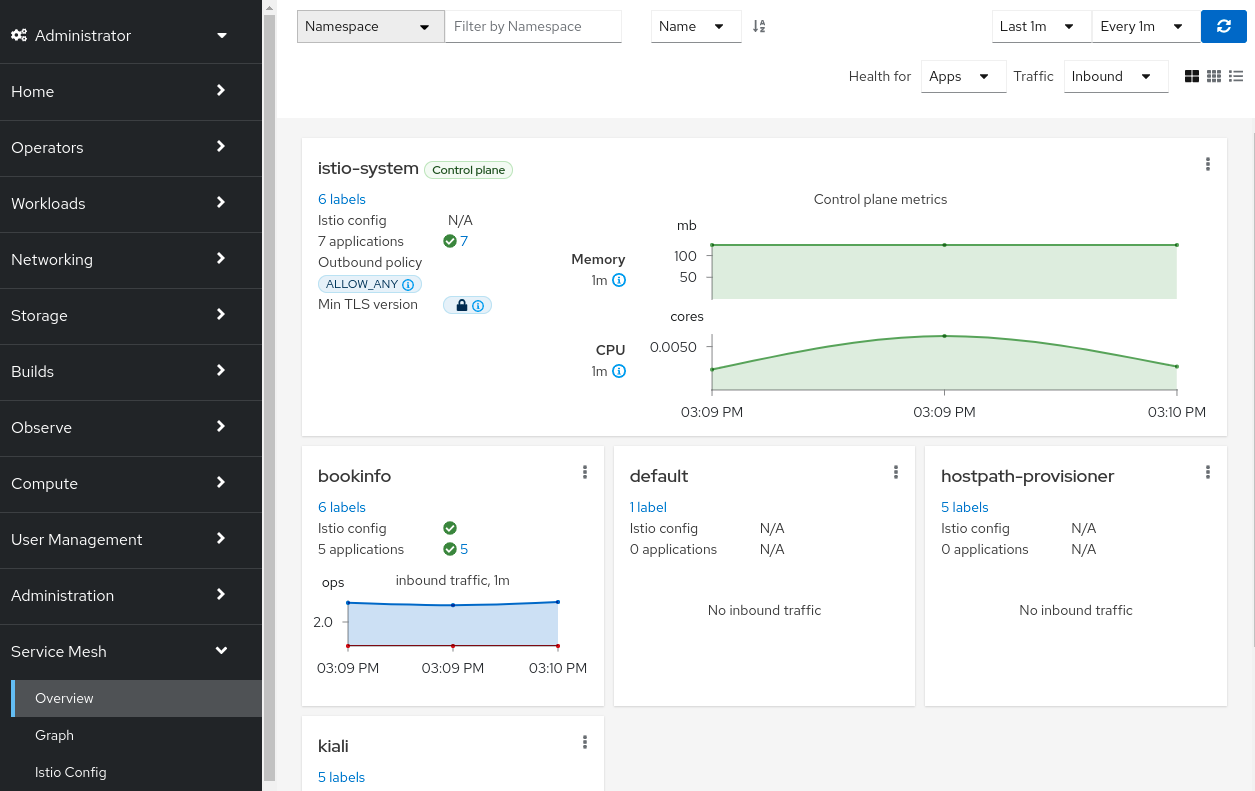
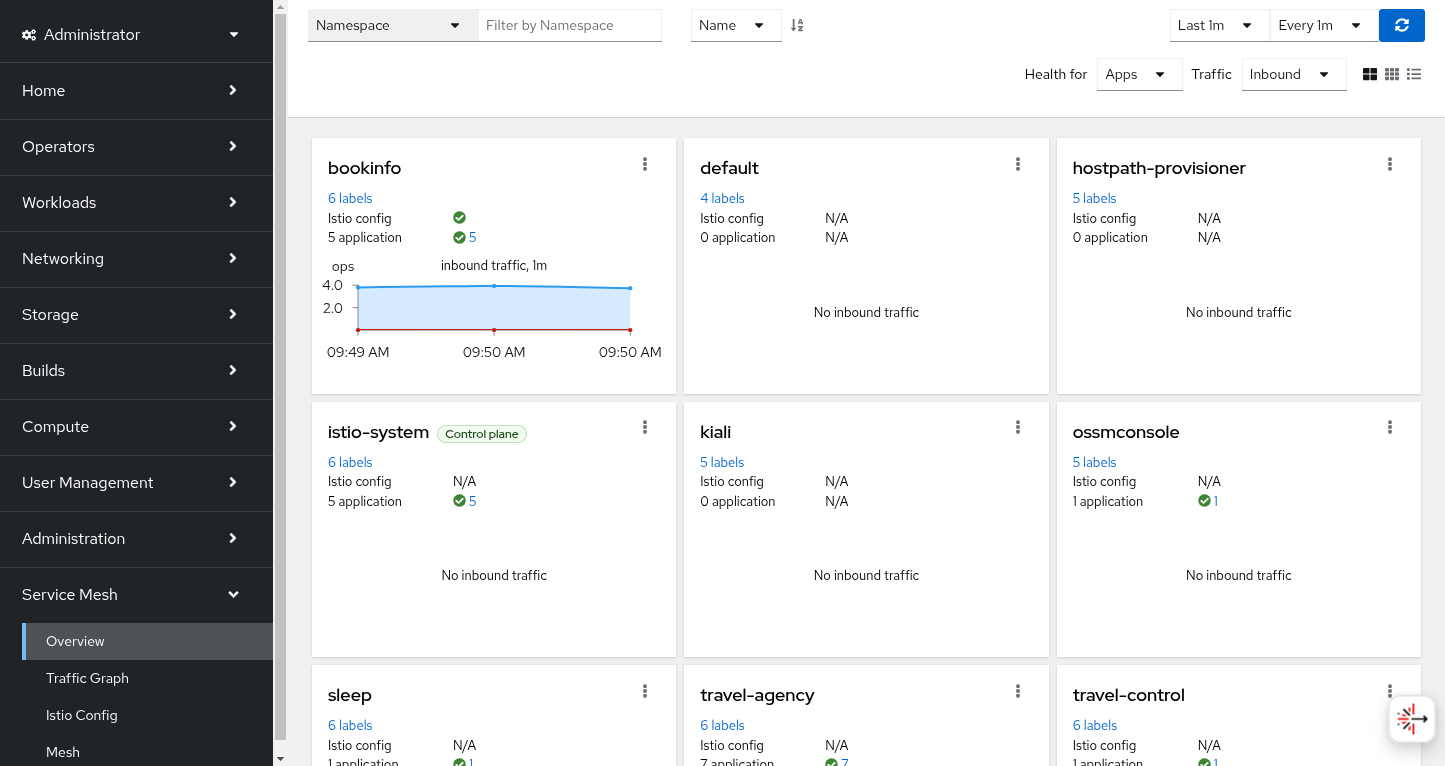
Add mesh page to OSSMC User Guide

diff --git a/content/en/docs/OSSMC/users-guide.md b/content/en/docs/OSSMC/users-guide.md
@@ -4,16 +4,16 @@ description: "User Guide providing a quick tour of OSSMC functionality"
 weight: 10
 ---
 
-The OpenShift Service Mesh Console (aka OSSMC) is an extension to the OpenShift Console which provides visibility into your Service Mesh. With OSSMC installed you will see a new **Service Mesh** menu option on the left-hand side of the Console, as well as new **Service Mesh** tabs that enhance existing Console pages such as the **Workloads** and **Services** pages.
+The OpenShift Service Mesh Console (OSSMC) is an extension to the OpenShift Console which provides visibility into your Service Mesh. With the OSSMC plugin installed, a new **Service Mesh** menu category is available in the navigation menu on the left side of the web console, as well as new **Service Mesh** tabs that enhance the existing **Workloads** and **Services** OpenShift console detail pages.
 
-The features you see described here are very similar to those of the standalone Kiali Console. In fact, you can still access the standalone Kiali Console if you wish. This User Guide, however, will discuss the extensions you see from within the OpenShift Console itself.
+The features of the OSSMC plugin are the same as those of the standalone Kiali Console, but the pages are organized differently to better integrate with the OpenShift console. The OSSMC plugin does not replace the Kiali Console, and after installing the OSSMC plugin, you can still access the standalone Kiali Console. This User Guide, however, will discuss the extensions you see from within the OpenShift Console itself.
 
 {{% alert color="warning" %}}
 The OSSMC [only supports a single tenant today](https://github.com/kiali/openshift-servicemesh-plugin/issues/187). Whether that tenant is configured to access only a subset of OpenShift projects or has access cluster-wide to all projects does not matter, however, only a single tenant can be accessed.
 {{% /alert %}}
 
 {{% alert color="warning" %}}
-If you are using a certificate that your browser does not initially trust, you must tell your browser to trust the certificate first before you are able to access the OpenShift Service Mesh Console. You can go to the Kiali standalone UI and tell the browser to accept its certificate in order to do this.
+If you are using a certificate that your browser does not initially trust, you must tell your browser to trust the certificate first before you are able to access the OSSMC plugin. To do this, go to the Kiali standalone user interface (UI) and tell the browser to accept its certificate.
 {{% /alert %}}
 
 ## Overview
@@ -22,9 +22,9 @@ The **Overview** page provides a summary of your mesh by showing cards represent
 
 ![Overview](/images/documentation/installation/installation-guide/20-overview.png)
 
-## Graph
+## Traffic Graph
 
-The **Graph** page provides the full topology view of your mesh. The mesh is represented by nodes and edges - each node representing a component of the mesh and each edge representing traffic flowing through the mesh between components.
+The **Traffic Graph** page provides the full topology view of your mesh. The mesh is represented by nodes and edges - each node representing a component of the mesh and each edge representing traffic flowing through the mesh between components.
 
 ![Graph](/images/documentation/installation/installation-guide/21-graph.png)
 
@@ -34,15 +34,21 @@ The **Istio Config** page provides a list of all Istio configuration files in yo
 
 ![Istio Config](/images/documentation/installation/installation-guide/22-istioconfig.png)
 
+## Mesh
+
+The **Mesh** page provides detailed information about the Istio infrastructure status. It shows an infrastructure topology view with core and add-on components, their health, and how they are connected to each other.
+
+![Istio Config](/images/documentation/installation/installation-guide/22-mesh.png)
+
 ## Workload
 
 The **Workloads** view has a tab **Service Mesh** that provides a lot of mesh-related detail for the selected workload. The details are grouped into several sub-tabs: Overview, Traffic, Logs, Inbound Metrics, Outbound Metrics, Traces, and Envoy.
 
-![Workload](/images/documentation/installation/installation-guide/23-workload.png)
-
 ### Workload: Overview
 
 The **Workload: Overview** sub-tab provides a summary of the selected workload including a localized topology graph showing the workload with all inbound and outbound edges and nodes.
+
+![Workload: Overview](/images/documentation/installation/installation-guide/23-workload.png)
 
 ### Workload: Traffic
 
@@ -88,3 +94,8 @@ The **Services** view has a tab **Service Mesh** that provides mesh-related deta
 
 ![Services: Overview](/images/documentation/installation/installation-guide/31-services-overview.png)
 
+## Projects
+
+The **Projects** view has a tab **Service Mesh** that provides traffic graph information about that project. It is the same information shown in the [**Traffic Graph**](#traffic-graph) page but specific to that project.
+
+![Projects: Overview](/images/documentation/installation/installation-guide/32-projects-graph.png)
